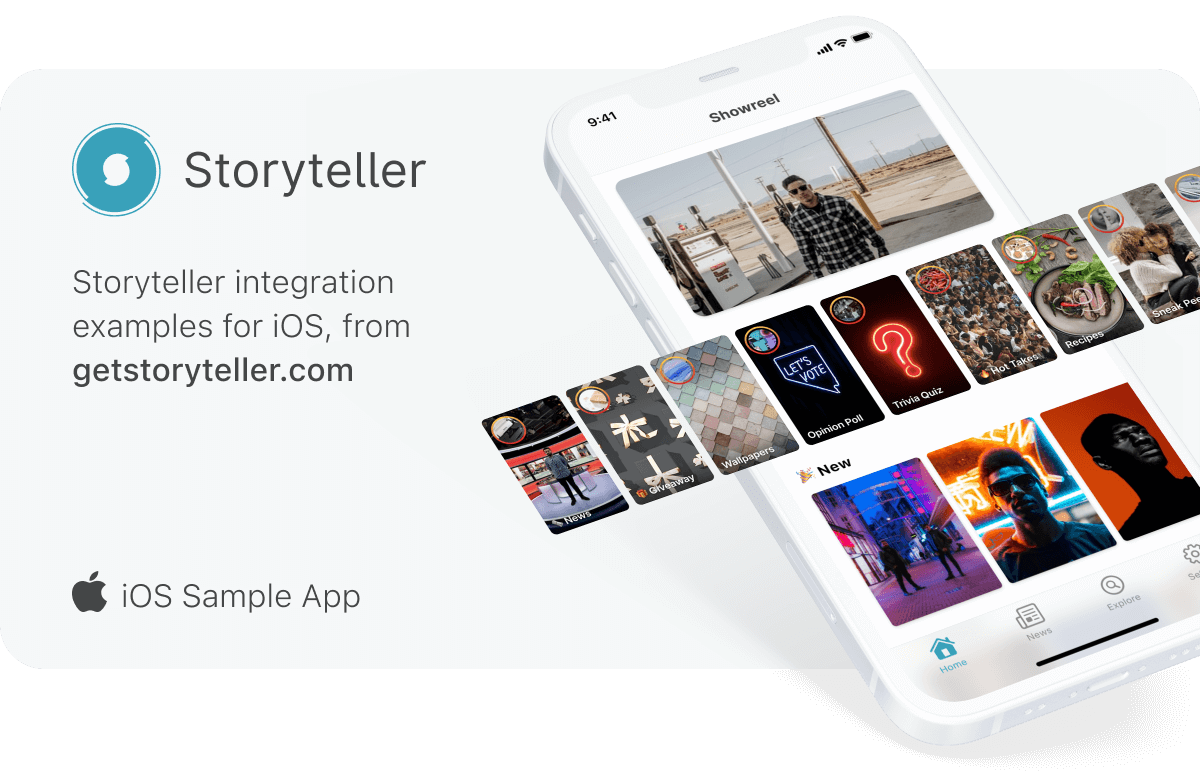
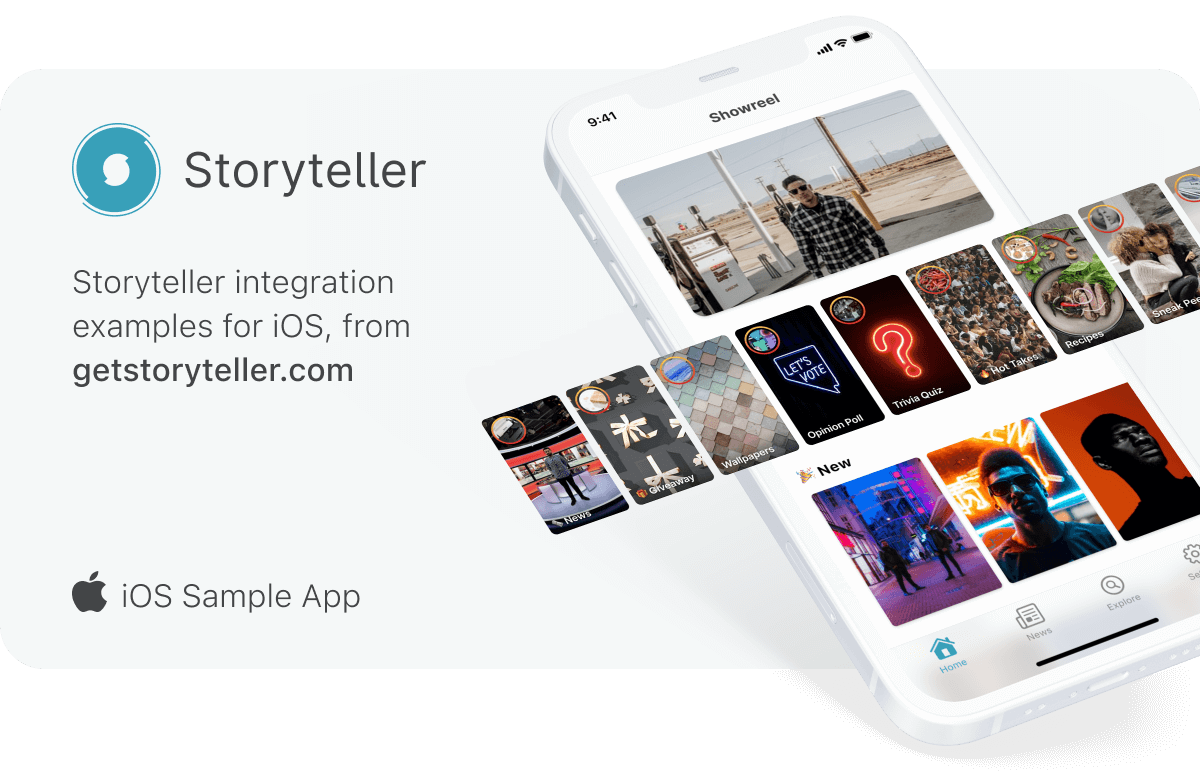
Adding image size to cover image html

diff --git a/README.md b/README.md
@@ -1,7 +1,7 @@
 # Storyteller iOS Sample App
 
 <a href="https://getstoryteller.com" target="_blank">
-  <img alt="Storyteller integration examples for iOS, from getstoryteller.com" src="img/readme-cover.png">
+  <img alt="Storyteller integration examples for iOS, from getstoryteller.com" src="img/readme-cover.png" width="1200" height="784">
 </a>
 
 ![Cocoapods Compatible](https://img.shields.io/badge/Cocoapods-Compatible-green?logo=cocoapods)
